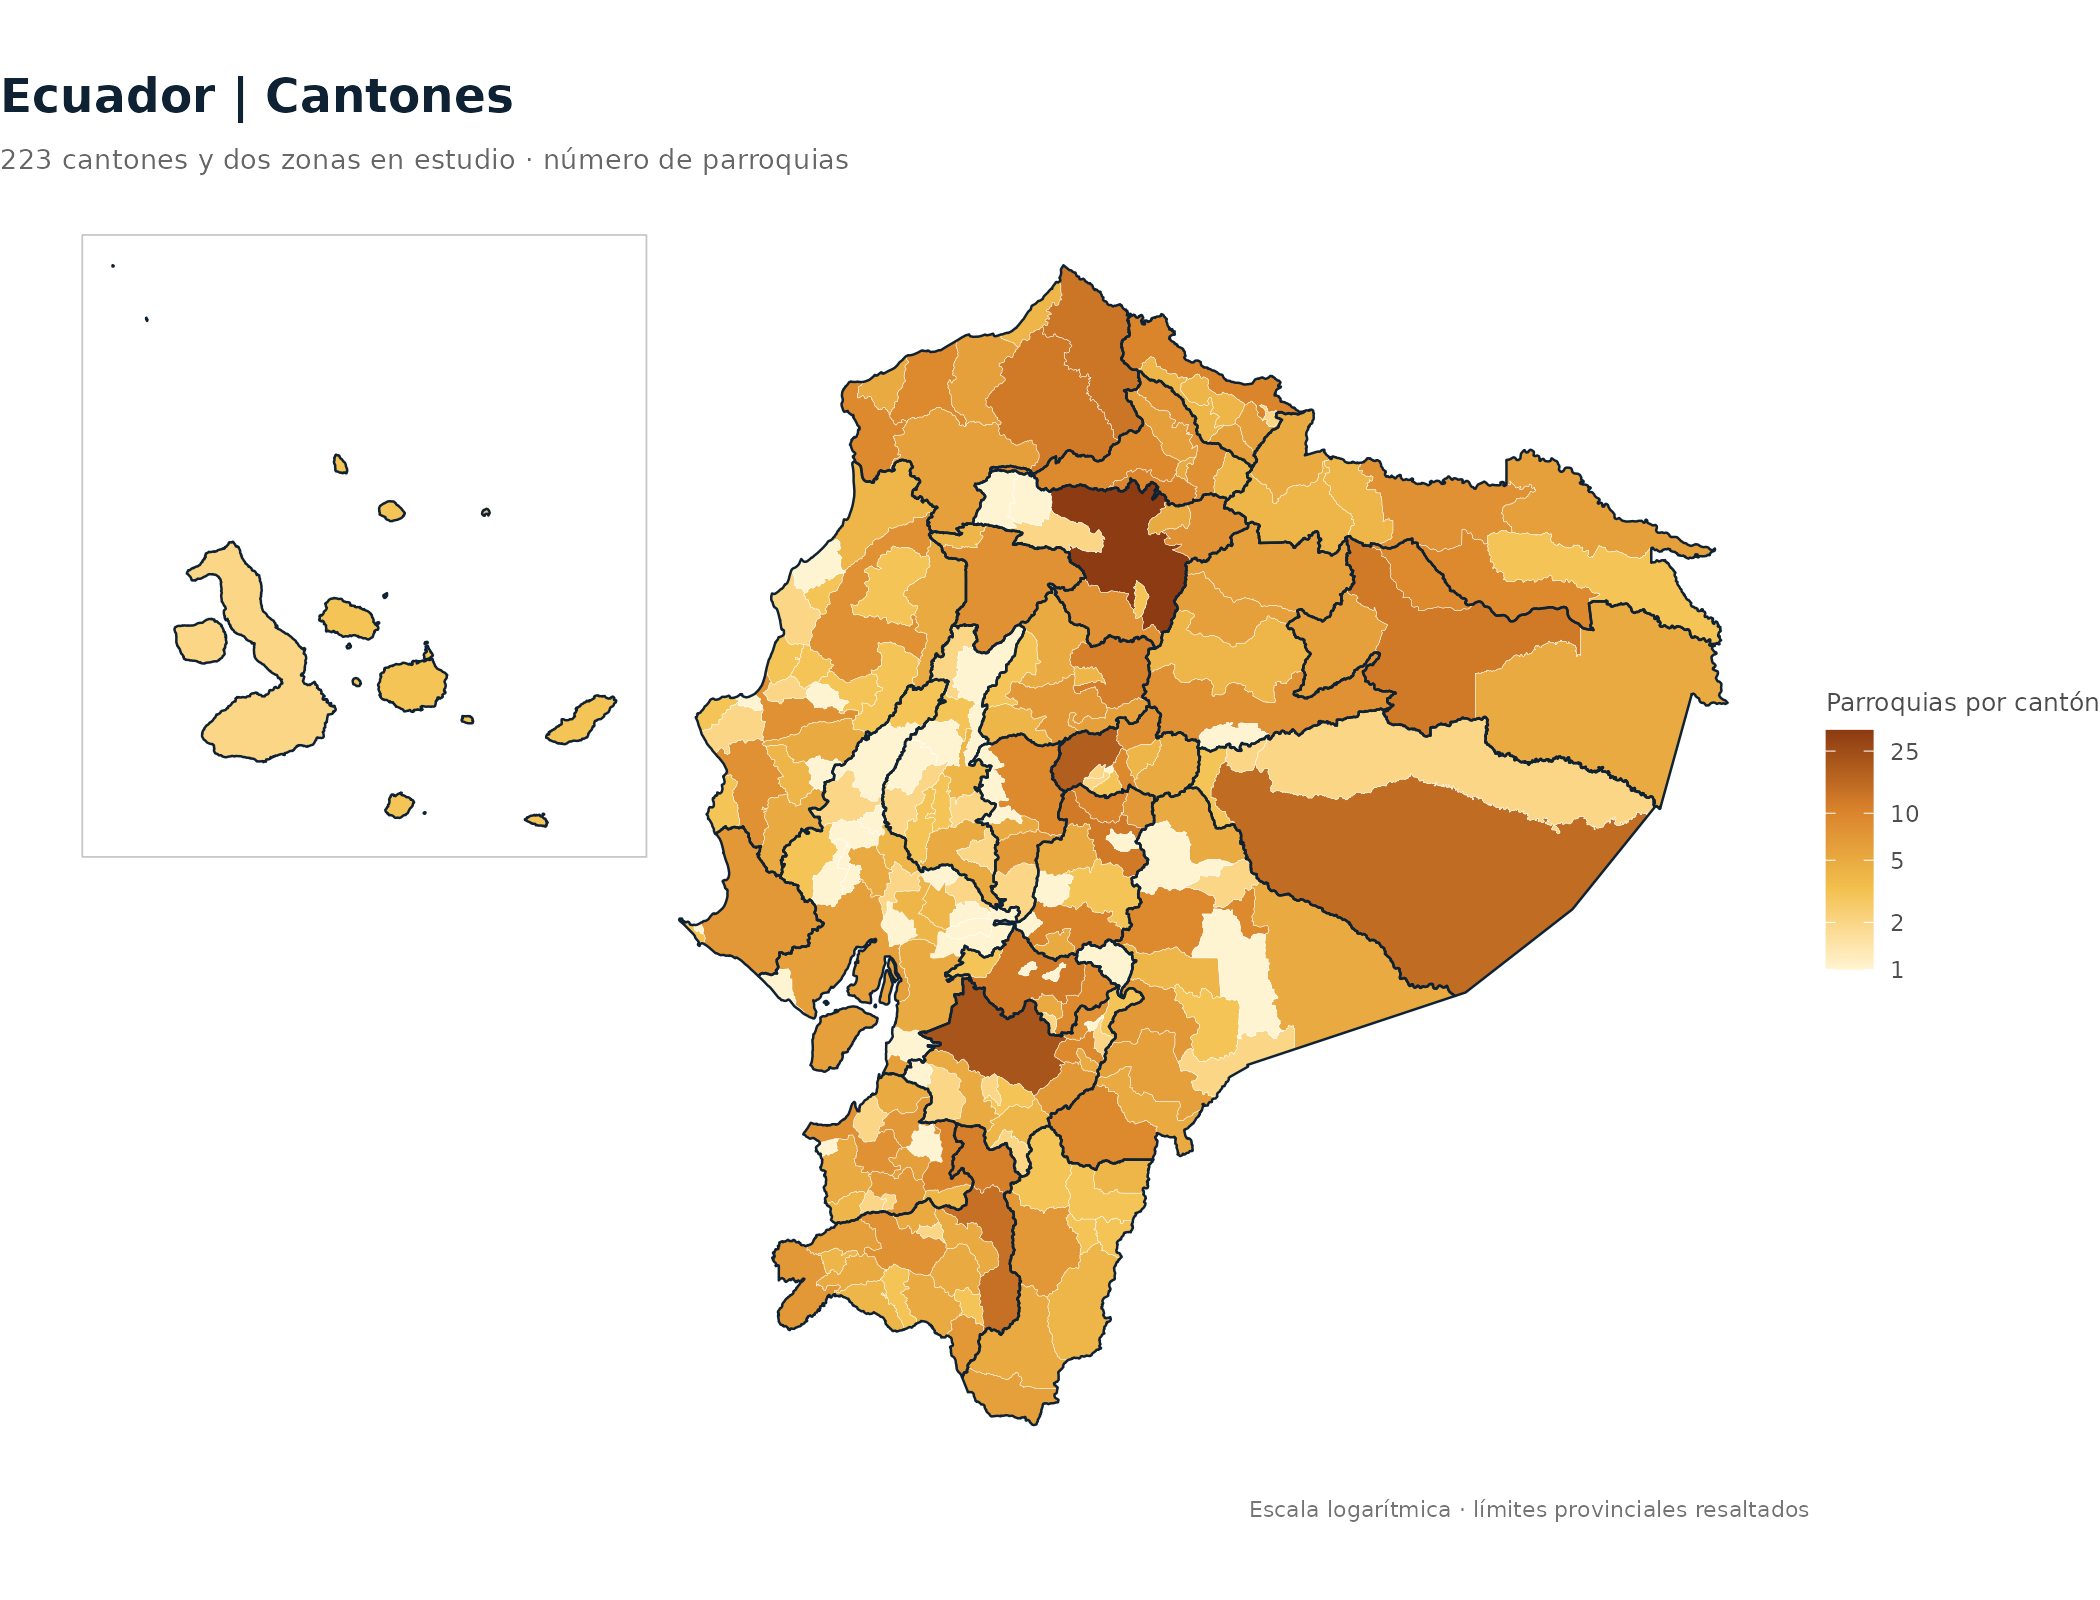
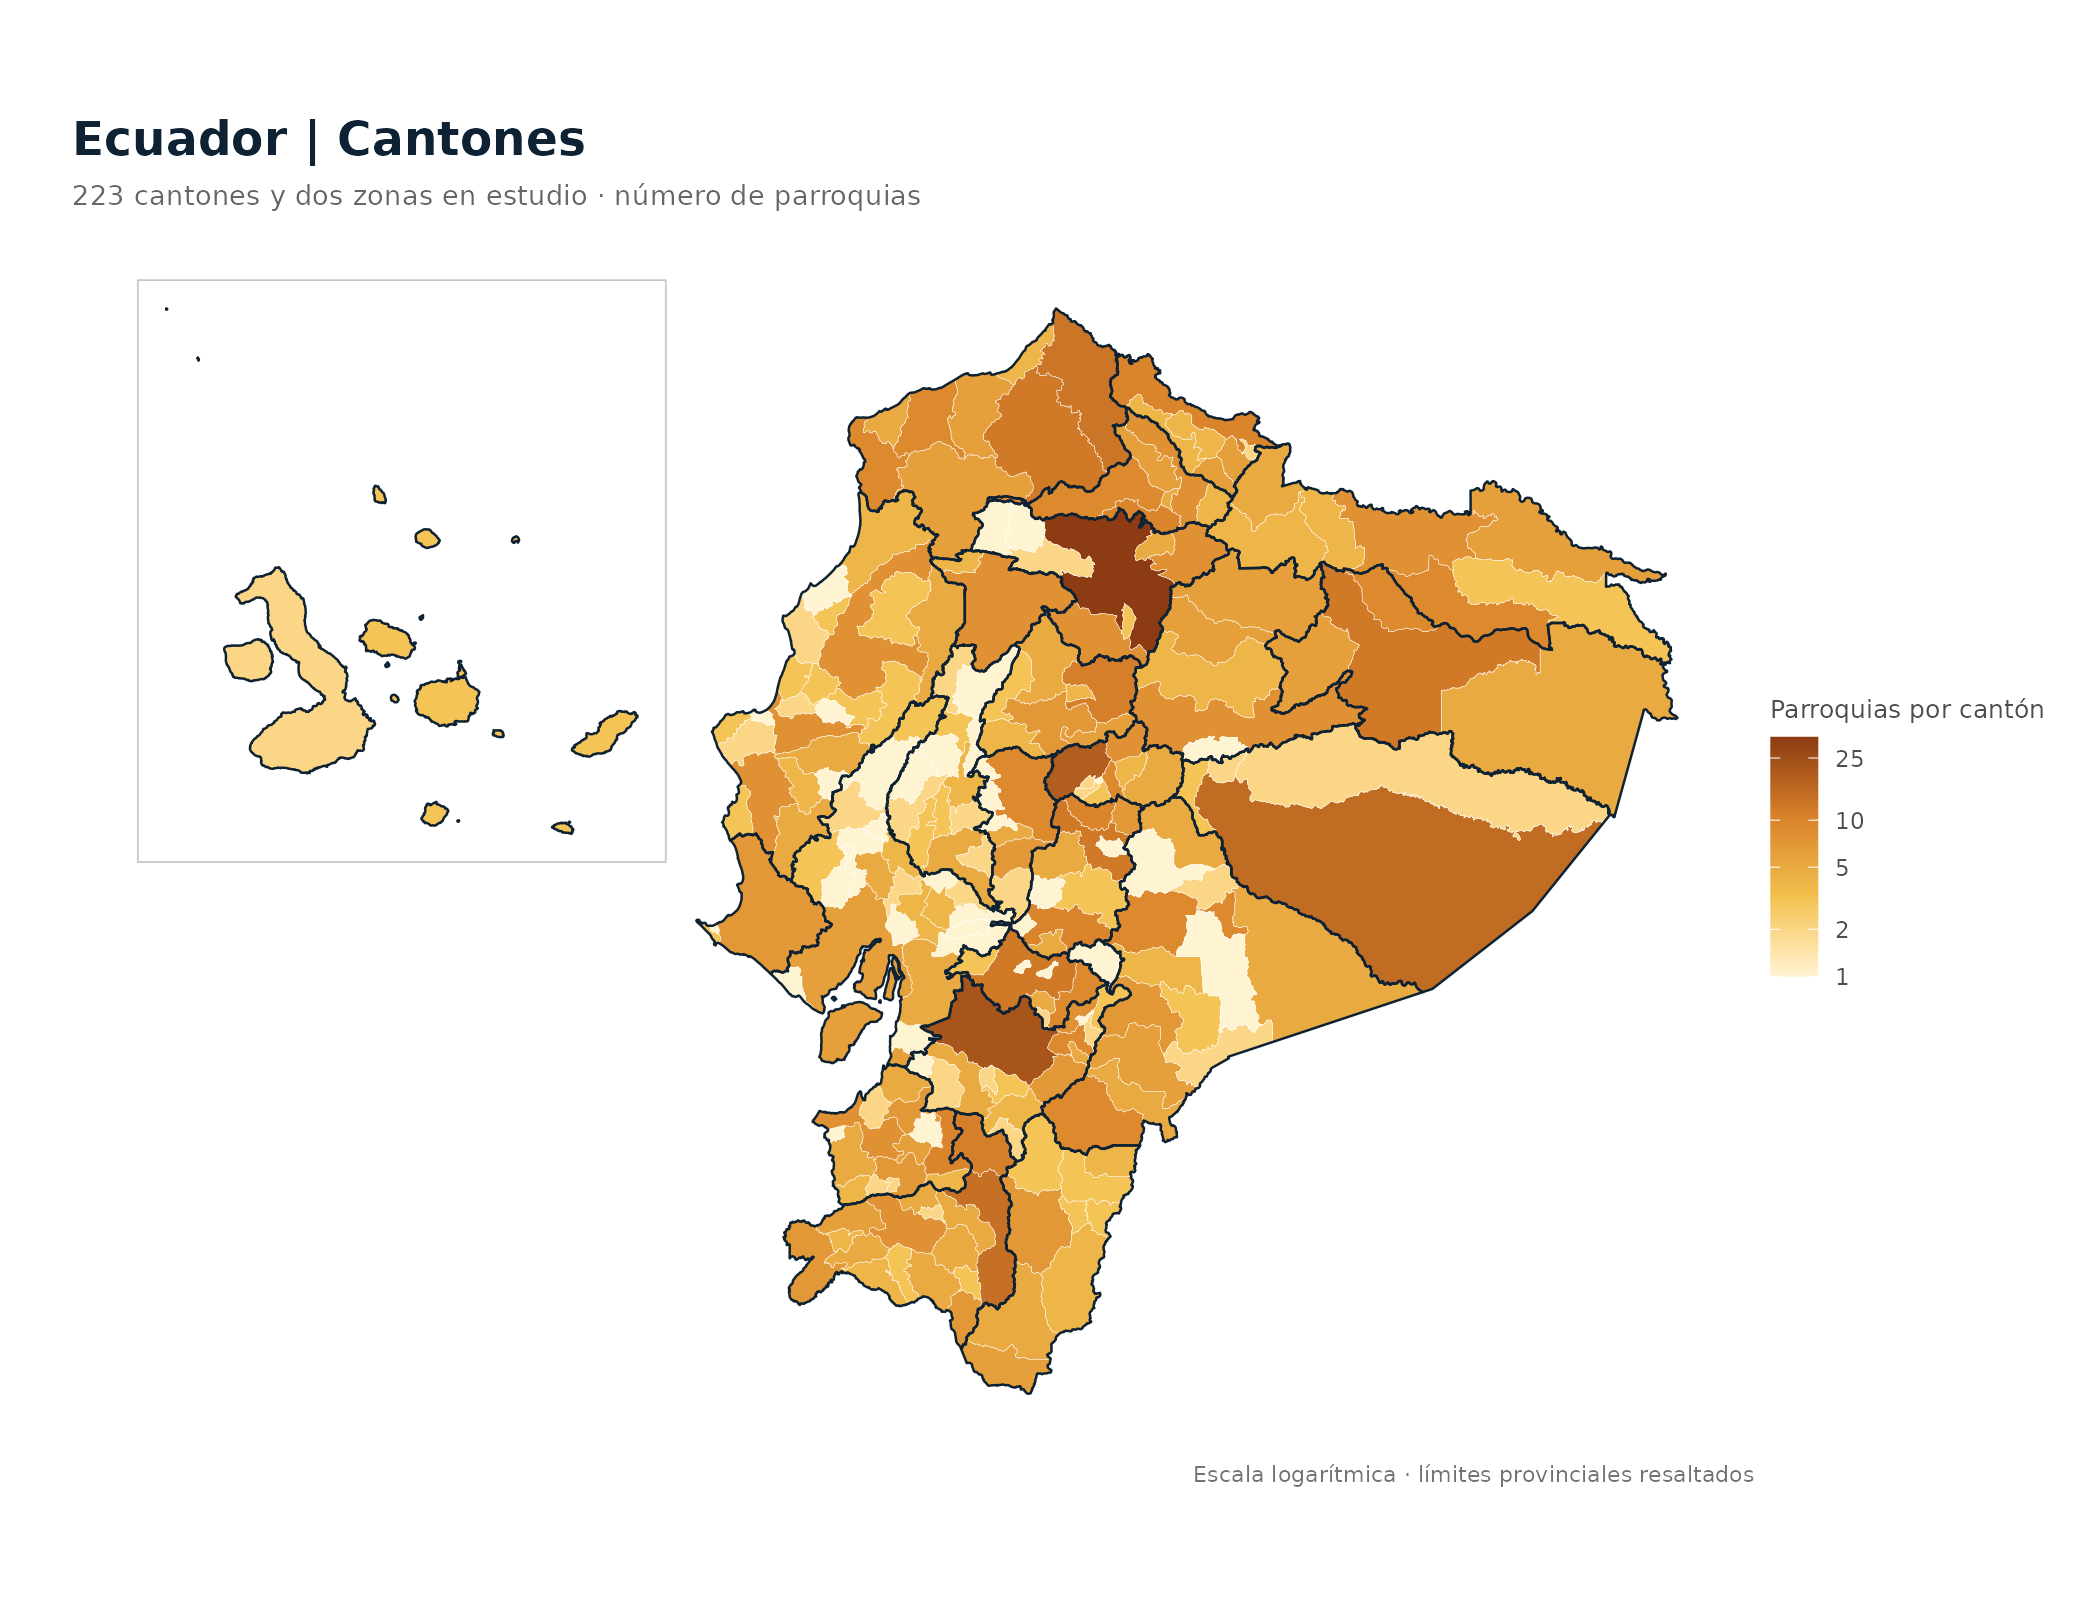
fix: añadir margen interno a los títulos de mapas (#5)
Actualiza márgenes del generador cartográfico y sus cinco ejemplos reproducibles, regenerando seis PNG sin alterar geometrías ni funciones del paquete.

diff --git a/README.md b/README.md
@@ -201,11 +201,14 @@ dorado <- "#F2B705"
 
 tema <- theme_void(base_size = 12) +
   theme(plot.title = element_text(face = "bold", size = 13, color = azul,
-                                  hjust = 0.5, margin = margin(b = 4)),
-        plot.subtitle = element_text(size = 9.5, color = "grey40", hjust = 0.5),
+                                  hjust = 0.5, margin = margin(t = 3, b = 7, l = 4, r = 4)),
+        plot.subtitle = element_text(size = 9.5, color = "grey40",
+                                     hjust = 0.5, margin = margin(b = 5, l = 4, r = 4)),
         legend.position = "bottom",
         legend.title = element_text(size = 9, color = "grey30"),
         legend.text = element_text(size = 8.5, color = "grey30"),
+        plot.title.position = "plot",
+        plot.margin = margin(t = 18, r = 20, b = 18, l = 22, unit = "pt"),
         plot.background = element_rect(fill = "white", color = NA))
 
 marco <- function(capa) {
@@ -275,11 +278,14 @@ dorado <- "#F2B705"
 
 tema <- theme_void(base_size = 12) +
   theme(plot.title = element_text(face = "bold", size = 13, color = azul,
-                                  hjust = 0.5, margin = margin(b = 4)),
-        plot.subtitle = element_text(size = 9.5, color = "grey40", hjust = 0.5),
+                                  hjust = 0.5, margin = margin(t = 3, b = 7, l = 4, r = 4)),
+        plot.subtitle = element_text(size = 9.5, color = "grey40",
+                                     hjust = 0.5, margin = margin(b = 5, l = 4, r = 4)),
         legend.position = "bottom",
         legend.title = element_text(size = 9, color = "grey30"),
         legend.text = element_text(size = 8.5, color = "grey30"),
+        plot.title.position = "plot",
+        plot.margin = margin(t = 18, r = 20, b = 18, l = 22, unit = "pt"),
         plot.background = element_rect(fill = "white", color = NA))
 
 marco <- function(capa) {
@@ -337,11 +343,14 @@ dorado <- "#F2B705"
 
 tema <- theme_void(base_size = 12) +
   theme(plot.title = element_text(face = "bold", size = 13, color = azul,
-                                  hjust = 0.5, margin = margin(b = 4)),
-        plot.subtitle = element_text(size = 9.5, color = "grey40", hjust = 0.5),
+                                  hjust = 0.5, margin = margin(t = 3, b = 7, l = 4, r = 4)),
+        plot.subtitle = element_text(size = 9.5, color = "grey40",
+                                     hjust = 0.5, margin = margin(b = 5, l = 4, r = 4)),
         legend.position = "bottom",
         legend.title = element_text(size = 9, color = "grey30"),
         legend.text = element_text(size = 8.5, color = "grey30"),
+        plot.title.position = "plot",
+        plot.margin = margin(t = 18, r = 20, b = 18, l = 22, unit = "pt"),
         plot.background = element_rect(fill = "white", color = NA))
 
 marco <- function(capa) {
@@ -409,11 +418,14 @@ dorado <- "#F2B705"
 
 tema <- theme_void(base_size = 12) +
   theme(plot.title = element_text(face = "bold", size = 13, color = azul,
-                                  hjust = 0.5, margin = margin(b = 4)),
-        plot.subtitle = element_text(size = 9.5, color = "grey40", hjust = 0.5),
+                                  hjust = 0.5, margin = margin(t = 3, b = 7, l = 4, r = 4)),
+        plot.subtitle = element_text(size = 9.5, color = "grey40",
+                                     hjust = 0.5, margin = margin(b = 5, l = 4, r = 4)),
         legend.position = "bottom",
         legend.title = element_text(size = 9, color = "grey30"),
         legend.text = element_text(size = 8.5, color = "grey30"),
+        plot.title.position = "plot",
+        plot.margin = margin(t = 18, r = 20, b = 18, l = 22, unit = "pt"),
         plot.background = element_rect(fill = "white", color = NA))
 
 marco <- function(capa) {
@@ -464,11 +476,14 @@ dorado <- "#F2B705"
 
 tema <- theme_void(base_size = 12) +
   theme(plot.title = element_text(face = "bold", size = 13, color = azul,
-                                  hjust = 0.5, margin = margin(b = 4)),
-        plot.subtitle = element_text(size = 9.5, color = "grey40", hjust = 0.5),
+                                  hjust = 0.5, margin = margin(t = 3, b = 7, l = 4, r = 4)),
+        plot.subtitle = element_text(size = 9.5, color = "grey40",
+                                     hjust = 0.5, margin = margin(b = 5, l = 4, r = 4)),
         legend.position = "bottom",
         legend.title = element_text(size = 9, color = "grey30"),
         legend.text = element_text(size = 8.5, color = "grey30"),
+        plot.title.position = "plot",
+        plot.margin = margin(t = 18, r = 20, b = 18, l = 22, unit = "pt"),
         plot.background = element_rect(fill = "white", color = NA))
 
 marco <- function(capa) {
@@ -492,7 +507,7 @@ g_loja <- ggplot() +
        subtitle = "read_parroquias(provincia = \"Loja\", resolucion = \"alta\")") +
   tema + theme(plot.title = element_text(hjust = 0),
                plot.subtitle = element_text(hjust = 0, family = "mono"),
-               plot.margin = margin(12, 12, 12, 12))
+               plot.margin = margin(t = 18, r = 20, b = 18, l = 22, unit = "pt"))
 
 print(g_loja)
 # ggsave("mapa_loja.png", g_loja, width = 8, height = 8, dpi = 200)
